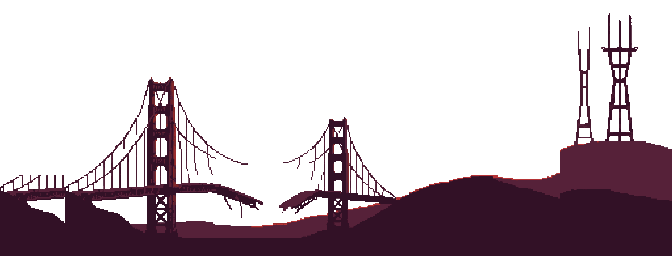
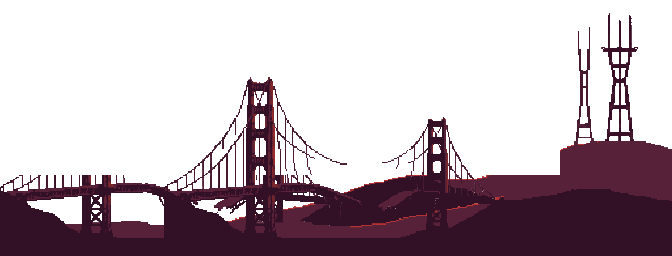
Title screen: the pyramid stands clear of the keeper; phones show the towers

Changed region(s): [[0.0938, 0.3125, 0.8438, 0.9375], [0.5625, 0.625, 0.5938, 0.6562]]

diff --git a/site/site.css b/site/site.css
@@ -452,7 +452,7 @@ figcaption { color: var(--dim); font-size: 16px; font-style: italic; line-height
 
 /* phone view: the command window becomes a bar fixed to the bottom of the screen */
 @media (max-width: 720px) {
-  #vista { height: min(70vw, 38vh); } #intro .titlewrap { flex-direction: column; gap: 18px; } #sprite { width: min(200px, 33vh); } #intro .win { text-align: center; } #intro .name { font-size: clamp(22px, 8vw, 34px); }
+  #vista { height: min(70vw, 38vh); } #vista img { object-position: 90% bottom; }   /* the keeper stands above the skyline here, not on the cliff, so show the towers */ #intro .titlewrap { flex-direction: column; gap: 18px; } #sprite { width: min(200px, 33vh); } #intro .win { text-align: center; } #intro .name { font-size: clamp(22px, 8vw, 34px); }
   #intro .firstline { margin: 14px auto 0; } #intro .start { margin: 20px auto 0; }
   #intro::after { --sx: 74%; --sy: 24%; }
   body { padding-bottom: 72px; }   /* room for the folded menu fixed to the bottom of a phone screen */

diff --git a/art/raw/NOTES.md b/art/raw/NOTES.md
@@ -27,4 +27,4 @@
 
 ## Title screen
 
-- `title/far.png`, `title/city.png`, `title/ledge.png` (from `art/raw/title`): three 672 x 256 layers on transparency, stacked at the foot of the title screen (`#vista` in index.html), each drifting slowly. San Francisco on the Dying Earth: the far hills hold the broken Golden Gate (moved right by hand so both towers show between the buildings) and Sutro Tower; the city is the ruined skyline (Transamerica Pyramid, Coit Tower and its Victorians, the broken Salesforce Tower); the ledge is a Lands End cliff with an old street lamp, whose post was shortened by hand so the lamp fits under the top edge.
+- `title/far.png`, `title/city.png`, `title/ledge.png` (from `art/raw/title`): three 672 x 256 layers on transparency, stacked at the foot of the title screen (`#vista` in index.html), each drifting slowly. San Francisco on the Dying Earth: the far hills hold the broken Golden Gate (moved by hand so both towers show between the buildings) and Sutro Tower; the city is the ruined skyline (Coit Tower and its Victorians, the Transamerica Pyramid, the broken Salesforce Tower), its pieces rearranged by hand so the pyramid stands clear of the keeper; on phones the layers show their right-hand side; the ledge is a Lands End cliff with an old street lamp, whose post was shortened by hand so the lamp fits under the top edge.
